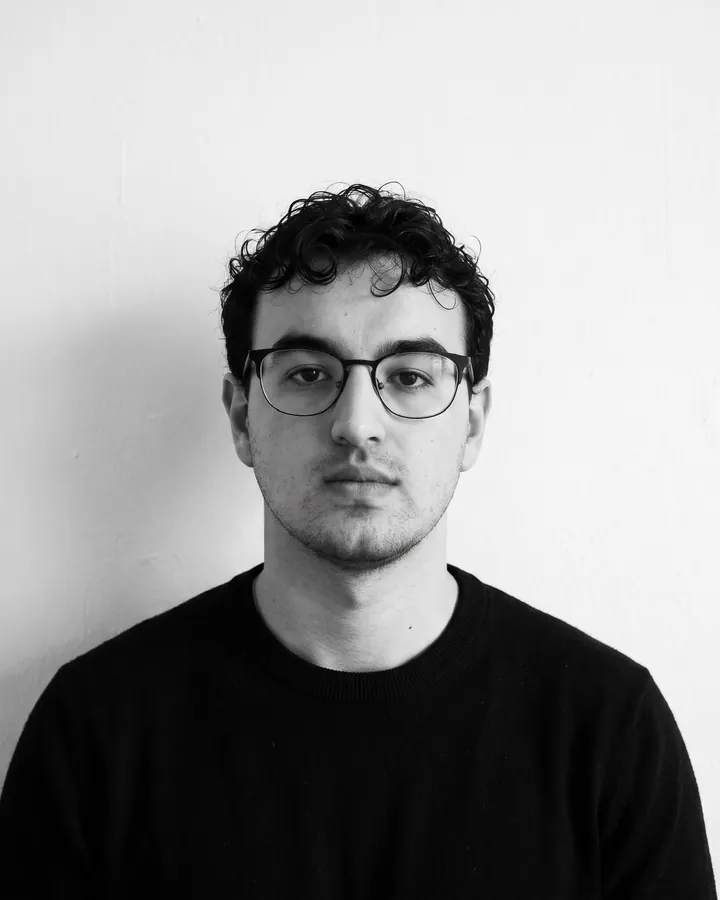
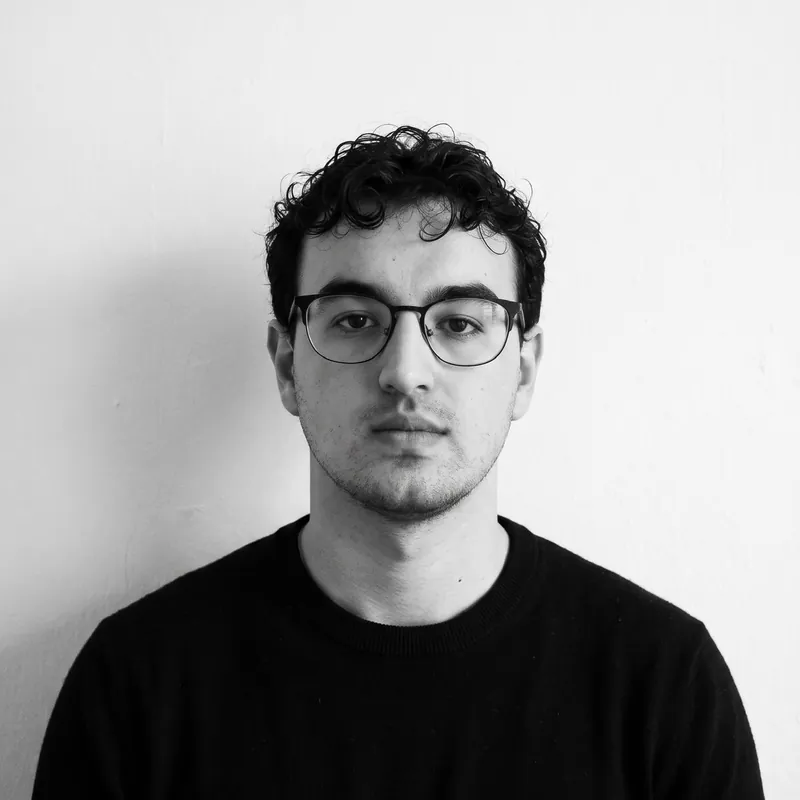
About: round photo frames, Volkan's photo, clothing-traced doodles, full studio names

Changed region(s): [[0.0, 0.1562, 1.0, 1.0]]

diff --git a/public/about.html b/public/about.html
@@ -127,82 +127,82 @@
       </div>
       <ul class="tm-grid">
         <li class="tm x-advisory io" style="--d:0.00s">
-          <div class="tm-ph"><img src="/team/01.webp" alt="" width="720" height="720" loading="lazy" decoding="async"><svg class="doodle" viewBox="0 0 100 125" preserveAspectRatio="none" aria-hidden="true"><circle pathLength="1" cx="82" cy="24" r="10"/><circle pathLength="1" cx="82" cy="24" r="4"/><path pathLength="1" d="M67 40L80 26M71 27l9-1l-1 9"/></svg></div>
+          <div class="tm-ph"><img src="/team/volkan.webp" alt="Volkan" width="800" height="800" loading="lazy" decoding="async"><svg class="doodle" viewBox="0 0 100 100" preserveAspectRatio="none" aria-hidden="true"><g transform="translate(0 -2.3)"><path pathLength="1" d="M35 68Q50 90 65 68"/><path pathLength="1" d="M31.5 69.5Q50 96 68.5 69.5"/><ellipse pathLength="1" cx="41" cy="41.5" rx="6" ry="5"/><ellipse pathLength="1" cx="56.5" cy="41.5" rx="6.3" ry="5"/></g></svg></div>
           <h3 class="tm-name">Volkan</h3>
           <p class="tm-role">Managing Partner / Head of Strategy</p>
         </li>
         <li class="tm x-creative io" style="--d:0.06s">
-          <div class="tm-ph"><img src="/team/02.webp" alt="" width="720" height="720" loading="lazy" decoding="async"><svg class="doodle" viewBox="0 0 100 125" preserveAspectRatio="none" aria-hidden="true"><path pathLength="1" d="M35 21L37 7L44 15L50 4L56 15L63 7L65 21Q50 17 35 21Z"/><path pathLength="1" d="M82 30v12M76 36h12"/><path pathLength="1" d="M18 52v7M14.5 55.5h7"/></svg></div>
+          <div class="tm-ph"><img src="/team/02.webp" alt="" width="720" height="720" loading="lazy" decoding="async"><svg class="doodle" viewBox="0 0 100 100" preserveAspectRatio="none" aria-hidden="true"><g transform="translate(10 0) scale(.8)"><path pathLength="1" d="M35 21L37 7L44 15L50 4L56 15L63 7L65 21Q50 17 35 21Z"/><path pathLength="1" d="M82 30v12M76 36h12"/><path pathLength="1" d="M18 52v7M14.5 55.5h7"/></g></svg></div>
           <h3 class="tm-name">Semih</h3>
           <p class="tm-role">Partner / Executive Creative Director</p>
         </li>
         <li class="tm x-brand io" style="--d:0.12s">
-          <div class="tm-ph"><img src="/team/ceren.webp" alt="Ceren" width="720" height="900" loading="lazy" decoding="async"><svg class="doodle" viewBox="0 0 100 125" preserveAspectRatio="none" aria-hidden="true"><path pathLength="1" d="M-13 6L-11 -8L-4 0L0 -11L4 0L11 -8L13 6Q0 2 -13 6Z" transform="translate(50 12) rotate(14)"/><path pathLength="1" d="M88 30v12M82 36h12"/><path pathLength="1" d="M8 118l9-8l7 4l11-12M28 102h7v7"/></svg></div>
+          <div class="tm-ph"><img src="/team/ceren.webp" alt="Ceren" width="800" height="800" loading="lazy" decoding="async"><svg class="doodle" viewBox="0 0 100 100" preserveAspectRatio="none" aria-hidden="true"><path pathLength="1" d="M18.5 49.5v2"/><circle pathLength="1" cx="18.5" cy="54" r="2.2"/><path pathLength="1" d="M84 38q6 3 2 8q-5 4 0 9q5 4 0 9q-4 3-1 7"/></svg></div>
           <h3 class="tm-name">Ceren</h3>
           <p class="tm-role">Partner / Head of Growth &amp; Client Relations</p>
         </li>
         <li class="tm x-corporate io" style="--d:0.18s">
-          <div class="tm-ph"><img src="/team/03.webp" alt="" width="720" height="720" loading="lazy" decoding="async"><svg class="doodle" viewBox="0 0 100 125" preserveAspectRatio="none" aria-hidden="true"><path pathLength="1" d="M74 12q-7 4-5 12M85 12q-7 4-5 12"/><path pathLength="1" d="M8 108h34"/><path pathLength="1" d="M18 102l5-7l5 7"/></svg></div>
+          <div class="tm-ph"><img src="/team/03.webp" alt="" width="720" height="720" loading="lazy" decoding="async"><svg class="doodle" viewBox="0 0 100 100" preserveAspectRatio="none" aria-hidden="true"><g transform="translate(10 0) scale(.8)"><path pathLength="1" d="M74 12q-7 4-5 12M85 12q-7 4-5 12"/><path pathLength="1" d="M8 108h34"/><path pathLength="1" d="M18 102l5-7l5 7"/></g></svg></div>
           <h3 class="tm-name">Çağlar</h3>
           <p class="tm-role">Partner / Editor-in-Chief</p>
         </li>
         <li class="tm x-brand io" style="--d:0.00s">
-          <div class="tm-ph"><img src="/team/03.webp" alt="" width="720" height="720" loading="lazy" decoding="async"><svg class="doodle" viewBox="0 0 100 125" preserveAspectRatio="none" aria-hidden="true"><path pathLength="1" d="M83 13l2.5 0.6l0.4 3.2l2.4 1.4l2.8-1.6l1.8 1.8l-1.6 2.8l1.4 2.4l3.2 0.4l0 3l-3.2 0.4l-1.4 2.4l1.6 2.8l-1.8 1.8l-2.8-1.6l-2.4 1.4l-0.4 3.2l-3 0l-0.4-3.2l-2.4-1.4l-2.8 1.6l-1.8-1.8l1.6-2.8l-1.4-2.4l-3.2-0.4l0-3l3.2-0.4l1.4-2.4l-1.6-2.8l1.8-1.8l2.8 1.6l2.4-1.4l0.4-3.2z"/><circle pathLength="1" cx="83.5" cy="26.5" r="4"/><path pathLength="1" d="M8 116L36 92M27 92h9v9"/></svg></div>
+          <div class="tm-ph"><img src="/team/03.webp" alt="" width="720" height="720" loading="lazy" decoding="async"><svg class="doodle" viewBox="0 0 100 100" preserveAspectRatio="none" aria-hidden="true"><g transform="translate(10 0) scale(.8)"><path pathLength="1" d="M83 13l2.5 0.6l0.4 3.2l2.4 1.4l2.8-1.6l1.8 1.8l-1.6 2.8l1.4 2.4l3.2 0.4l0 3l-3.2 0.4l-1.4 2.4l1.6 2.8l-1.8 1.8l-2.8-1.6l-2.4 1.4l-0.4 3.2l-3 0l-0.4-3.2l-2.4-1.4l-2.8 1.6l-1.8-1.8l1.6-2.8l-1.4-2.4l-3.2-0.4l0-3l3.2-0.4l1.4-2.4l-1.6-2.8l1.8-1.8l2.8 1.6l2.4-1.4l0.4-3.2z"/><circle pathLength="1" cx="83.5" cy="26.5" r="4"/><path pathLength="1" d="M8 116L36 92M27 92h9v9"/></g></svg></div>
           <h3 class="tm-name">Ulaş</h3>
           <p class="tm-role">Business Development Lead · Industrial &amp; Engineering</p>
         </li>
         <li class="tm x-brand io" style="--d:0.06s">
-          <div class="tm-ph"><img src="/team/04.webp" alt="" width="720" height="720" loading="lazy" decoding="async"><svg class="doodle" viewBox="0 0 100 125" preserveAspectRatio="none" aria-hidden="true"><path pathLength="1" d="M74 14v20M83 14v20M69 20h19M69 28h19"/><path pathLength="1" d="M20 108c-8-6-2-14 4-8c6-6 12 2 4 8l-4 4z"/><path pathLength="1" d="M10 30q6-4 10 0"/></svg></div>
+          <div class="tm-ph"><img src="/team/04.webp" alt="" width="720" height="720" loading="lazy" decoding="async"><svg class="doodle" viewBox="0 0 100 100" preserveAspectRatio="none" aria-hidden="true"><g transform="translate(10 0) scale(.8)"><path pathLength="1" d="M74 14v20M83 14v20M69 20h19M69 28h19"/><path pathLength="1" d="M20 108c-8-6-2-14 4-8c6-6 12 2 4 8l-4 4z"/><path pathLength="1" d="M10 30q6-4 10 0"/></g></svg></div>
           <h3 class="tm-name">Açelya</h3>
           <p class="tm-role">Creative Writer &amp; Social Media Lead</p>
         </li>
         <li class="tm x-corporate io" style="--d:0.12s">
-          <div class="tm-ph"><img src="/team/01.webp" alt="" width="720" height="720" loading="lazy" decoding="async"><svg class="doodle" viewBox="0 0 100 125" preserveAspectRatio="none" aria-hidden="true"><path pathLength="1" d="M73 12h20v24H73z"/><path pathLength="1" d="M77 19h12M77 24h12M77 29h7"/><path pathLength="1" d="M10 98l4 8M20 94v9M30 98l-4 8"/></svg></div>
+          <div class="tm-ph"><img src="/team/01.webp" alt="" width="720" height="720" loading="lazy" decoding="async"><svg class="doodle" viewBox="0 0 100 100" preserveAspectRatio="none" aria-hidden="true"><g transform="translate(10 0) scale(.8)"><path pathLength="1" d="M73 12h20v24H73z"/><path pathLength="1" d="M77 19h12M77 24h12M77 29h7"/><path pathLength="1" d="M10 98l4 8M20 94v9M30 98l-4 8"/></g></svg></div>
           <h3 class="tm-name">Name Surname</h3>
           <p class="tm-role">Account Manager · Events &amp; Corporate Comms</p>
         </li>
         <li class="tm x-corporate io" style="--d:0.18s">
-          <div class="tm-ph"><img src="/team/02.webp" alt="" width="720" height="720" loading="lazy" decoding="async"><svg class="doodle" viewBox="0 0 100 125" preserveAspectRatio="none" aria-hidden="true"><path pathLength="1" d="M82 10a5 5 0 0 1 5 5v9a5 5 0 0 1-10 0v-9a5 5 0 0 1 5-5z"/><path pathLength="1" d="M73 22a9 9 0 0 0 18 0M82 31v6"/><path pathLength="1" d="M8 96h26v20H8zM12 102h18M12 107h18M12 112h10"/></svg></div>
+          <div class="tm-ph"><img src="/team/02.webp" alt="" width="720" height="720" loading="lazy" decoding="async"><svg class="doodle" viewBox="0 0 100 100" preserveAspectRatio="none" aria-hidden="true"><g transform="translate(10 0) scale(.8)"><path pathLength="1" d="M82 10a5 5 0 0 1 5 5v9a5 5 0 0 1-10 0v-9a5 5 0 0 1 5-5z"/><path pathLength="1" d="M73 22a9 9 0 0 0 18 0M82 31v6"/><path pathLength="1" d="M8 96h26v20H8zM12 102h18M12 107h18M12 112h10"/></g></svg></div>
           <h3 class="tm-name">Name Surname</h3>
           <p class="tm-role">Media Relations Specialist</p>
         </li>
         <li class="tm x-research io" style="--d:0.00s">
-          <div class="tm-ph"><img src="/team/zeynep.webp" alt="Zeynep" width="720" height="900" loading="lazy" decoding="async"><svg class="doodle" viewBox="0 0 100 125" preserveAspectRatio="none" aria-hidden="true"><path pathLength="1" d="M50 30V17M50 23q-8-1-10-9q9 0 10 9M50 20q7-3 9-10q-8 1-9 10"/><circle pathLength="1" cx="84" cy="24" r="6"/><path pathLength="1" d="M88.5 28.5l6 6"/></svg></div>
-          <h3 class="tm-name">Zeynep</h3>
+          <div class="tm-ph"><img src="/team/zeynep.webp" alt="Zeynep Bastıyalı" width="800" height="800" loading="lazy" decoding="async"><svg class="doodle" viewBox="0 0 100 100" preserveAspectRatio="none" aria-hidden="true"><path pathLength="1" d="M41.5 62Q50 60.5 58.5 62"/><path pathLength="1" d="M30 64Q24 72 27 85M68 63Q74 71 71 85"/><ellipse pathLength="1" cx="42" cy="42" rx="5" ry="4"/><ellipse pathLength="1" cx="56" cy="42" rx="5" ry="4"/></svg></div>
+          <h3 class="tm-name">Zeynep Bastıyalı</h3>
           <p class="tm-role">Research &amp; Social Impact Consultant</p>
         </li>
         <li class="tm x-research io" style="--d:0.06s">
-          <div class="tm-ph"><img src="/team/01.webp" alt="" width="720" height="720" loading="lazy" decoding="async"><svg class="doodle" viewBox="0 0 100 125" preserveAspectRatio="none" aria-hidden="true"><circle pathLength="1" cx="83" cy="22" r="11"/><path pathLength="1" d="M83 11v11h11"/><path pathLength="1" d="M8 116l10-9l8 4l10-12l8 5"/><circle pathLength="1" cx="18" cy="107" r="1.6"/><circle pathLength="1" cx="36" cy="99" r="1.6"/></svg></div>
+          <div class="tm-ph"><img src="/team/01.webp" alt="" width="720" height="720" loading="lazy" decoding="async"><svg class="doodle" viewBox="0 0 100 100" preserveAspectRatio="none" aria-hidden="true"><g transform="translate(10 0) scale(.8)"><circle pathLength="1" cx="83" cy="22" r="11"/><path pathLength="1" d="M83 11v11h11"/><path pathLength="1" d="M8 116l10-9l8 4l10-12l8 5"/><circle pathLength="1" cx="18" cy="107" r="1.6"/><circle pathLength="1" cx="36" cy="99" r="1.6"/></g></svg></div>
           <h3 class="tm-name">Name Surname</h3>
           <p class="tm-role">Head of Data &amp; Insights</p>
         </li>
         <li class="tm x-creative io" style="--d:0.12s">
-          <div class="tm-ph"><img src="/team/mani.webp" alt="Mani" width="720" height="900" loading="lazy" decoding="async"><svg class="doodle" viewBox="0 0 100 125" preserveAspectRatio="none" aria-hidden="true"><circle pathLength="1" cx="39" cy="50" r="7.5"/><circle pathLength="1" cx="57" cy="50" r="7.5"/><path pathLength="1" d="M46.5 50q1.5-2 3 0M31.5 49l-8-3M64.5 49l8-3"/></svg></div>
-          <h3 class="tm-name">Mani</h3>
+          <div class="tm-ph"><img src="/team/mani.webp" alt="Mani Bagheri Hosseini" width="800" height="800" loading="lazy" decoding="async"><svg class="doodle" viewBox="0 0 100 100" preserveAspectRatio="none" aria-hidden="true"><path pathLength="1" d="M31 62Q35 78 30 100M62 63Q64 80 69 100"/><path pathLength="1" d="M35 80L39.5 92M62 80L55 88"/><circle pathLength="1" cx="36.2" cy="85" r="1.4"/></svg></div>
+          <h3 class="tm-name">Mani Bagheri Hosseini</h3>
           <p class="tm-role">Senior Graphic Designer / Art Director</p>
         </li>
         <li class="tm x-creative io" style="--d:0.18s">
-          <div class="tm-ph"><img src="/team/mehmet.webp" alt="Mehmet Serdar" width="720" height="900" loading="lazy" decoding="async"><svg class="doodle" viewBox="0 0 100 125" preserveAspectRatio="none" aria-hidden="true"><path pathLength="1" d="M44 24l-5-12M58 24l5-12"/><circle pathLength="1" cx="38.5" cy="10" r="2.2"/><circle pathLength="1" cx="63.5" cy="10" r="2.2"/><path pathLength="1" d="M88 22l-7 12h7l-6 12"/></svg></div>
-          <h3 class="tm-name">Mehmet Serdar</h3>
+          <div class="tm-ph"><img src="/team/mehmet.webp" alt="Mehmet Serdar Gül" width="800" height="800" loading="lazy" decoding="async"><svg class="doodle" viewBox="0 0 100 100" preserveAspectRatio="none" aria-hidden="true"><path pathLength="1" d="M35 70Q50 90 67 68"/><path pathLength="1" d="M20 61Q15 72 19 84M74 60Q84 68 83 84"/><path pathLength="1" d="M44 80L43 94M56 80L57 93"/><circle pathLength="1" cx="43" cy="95.6" r="1.3"/><circle pathLength="1" cx="57" cy="94.6" r="1.3"/></svg></div>
+          <h3 class="tm-name">Mehmet Serdar Gül</h3>
           <p class="tm-role">Junior Graphic Designer</p>
         </li>
         <li class="tm x-creative io" style="--d:0.00s">
-          <div class="tm-ph"><img src="/team/nehir.webp" alt="Nehir" width="720" height="900" loading="lazy" decoding="async"><svg class="doodle" viewBox="0 0 100 125" preserveAspectRatio="none" aria-hidden="true"><path pathLength="1" d="M32.8 10.5a2.2 2.2 0 1 0 4.4 0a2.2 2.2 0 1 0 -4.4 0M36.1 12.9a2.2 2.2 0 1 0 4.4 0a2.2 2.2 0 1 0 -4.4 0M34.9 16.8a2.2 2.2 0 1 0 4.4 0a2.2 2.2 0 1 0 -4.4 0M30.7 16.8a2.2 2.2 0 1 0 4.4 0a2.2 2.2 0 1 0 -4.4 0M29.5 12.9a2.2 2.2 0 1 0 4.4 0a2.2 2.2 0 1 0 -4.4 0M47.8 5.5a2.2 2.2 0 1 0 4.4 0a2.2 2.2 0 1 0 -4.4 0M51.1 7.9a2.2 2.2 0 1 0 4.4 0a2.2 2.2 0 1 0 -4.4 0M49.9 11.8a2.2 2.2 0 1 0 4.4 0a2.2 2.2 0 1 0 -4.4 0M45.7 11.8a2.2 2.2 0 1 0 4.4 0a2.2 2.2 0 1 0 -4.4 0M44.5 7.9a2.2 2.2 0 1 0 4.4 0a2.2 2.2 0 1 0 -4.4 0M62.8 10.5a2.2 2.2 0 1 0 4.4 0a2.2 2.2 0 1 0 -4.4 0M66.1 12.9a2.2 2.2 0 1 0 4.4 0a2.2 2.2 0 1 0 -4.4 0M64.9 16.8a2.2 2.2 0 1 0 4.4 0a2.2 2.2 0 1 0 -4.4 0M60.7 16.8a2.2 2.2 0 1 0 4.4 0a2.2 2.2 0 1 0 -4.4 0M59.5 12.9a2.2 2.2 0 1 0 4.4 0a2.2 2.2 0 1 0 -4.4 0"/><path pathLength="1" d="M86 40c-5-4-1-10 3-6c4-4 9 2 3 6l-3 3z"/></svg></div>
-          <h3 class="tm-name">Nehir</h3>
-          <p class="tm-role">Architect / 3D Artist</p>
-        </li>
-        <li class="tm x-creative io" style="--d:0.06s">
-          <div class="tm-ph"><img src="/team/koray.webp" alt="Koray" width="720" height="900" loading="lazy" decoding="async"><svg class="doodle" viewBox="0 0 100 125" preserveAspectRatio="none" aria-hidden="true"><path pathLength="1" d="M39 36q-7-8-3-16q2 8 9 12M61 36q7-8 3-16q-2 8-9 12"/><path pathLength="1" d="M82 44l9-3M83 51h10"/><path pathLength="1" d="M84 16l2 5l5 2l-5 2l-2 5l-2-5l-5-2l5-2z"/></svg></div>
-          <h3 class="tm-name">Koray</h3>
+          <div class="tm-ph"><img src="/team/koray.webp" alt="Koray İn" width="800" height="800" loading="lazy" decoding="async"><svg class="doodle" viewBox="0 0 100 100" preserveAspectRatio="none" aria-hidden="true"><path pathLength="1" d="M34 65L21 80L38 83M64 65L78 79L61 83"/><path pathLength="1" d="M40 75L50 92L61 74M50 92V100"/><circle pathLength="1" cx="50" cy="96" r="1.3"/></svg></div>
+          <h3 class="tm-name">Koray İn</h3>
           <p class="tm-role">Architect / Creative Technologist · 3D &amp; AI</p>
         </li>
+        <li class="tm x-creative io" style="--d:0.06s">
+          <div class="tm-ph"><img src="/team/nehir.webp" alt="Nehir Bal" width="800" height="800" loading="lazy" decoding="async"><svg class="doodle" viewBox="0 0 100 100" preserveAspectRatio="none" aria-hidden="true"><path pathLength="1" d="M22 70.5Q38 72 55 70"/><path pathLength="1" d="M40 66Q47 70.5 54 66"/><circle pathLength="1" cx="47" cy="69.5" r="1"/></svg></div>
+          <h3 class="tm-name">Nehir Bal</h3>
+          <p class="tm-role">Architect / 3D Artist</p>
+        </li>
         <li class="tm x-creative io" style="--d:0.12s">
-          <div class="tm-ph"><img src="/team/ozan.webp" alt="Ozan Serkan Muyan" width="720" height="900" loading="lazy" decoding="async"><svg class="doodle" viewBox="0 0 100 125" preserveAspectRatio="none" aria-hidden="true"><path pathLength="1" d="M68 18l11-6l11 6v13l-11 6l-11-6z"/><path pathLength="1" d="M68 18l11 6l11-6M79 24v13"/><path pathLength="1" d="M18 70c1 7 3 9 10 10c-7 1-9 3-10 10c-1-7-3-9-10-10c7-1 9-3 10-10z"/></svg></div>
+          <div class="tm-ph"><img src="/team/ozan.webp" alt="Ozan Serkan Muyan" width="800" height="800" loading="lazy" decoding="async"><svg class="doodle" viewBox="0 0 100 100" preserveAspectRatio="none" aria-hidden="true"><path pathLength="1" d="M36 66Q50 86 65 66"/><path pathLength="1" d="M33 67Q50 92 68 67"/><path pathLength="1" d="M36.5 37.5h11v7q0 2-2 2h-7q-2 0-2-2zM53 37.5h11v7q0 2-2 2h-7q-2 0-2-2zM47.5 39.5h5.5"/></svg></div>
           <h3 class="tm-name">Ozan Serkan Muyan</h3>
           <p class="tm-role">Architect / Creative Technologist · 3D &amp; AI</p>
         </li>
         <li class="tm x-creative io" style="--d:0.18s">
-          <div class="tm-ph"><img src="/team/kedito.webp" alt="" width="800" height="1003" loading="lazy" decoding="async"><svg class="doodle" viewBox="0 0 100 125" preserveAspectRatio="none" aria-hidden="true"><path pathLength="1" d="M50 60l-12-7v14zM50 60l12-7v14z"/><circle pathLength="1" cx="50" cy="60" r="2.5"/><path pathLength="1" d="M5 16h14v11H5zM5 16l4-5h14l-4 5M19 27l4-5V11"/></svg></div>
+          <div class="tm-ph"><img src="/team/kedito.webp" alt="" width="800" height="1003" loading="lazy" decoding="async"><svg class="doodle" viewBox="0 0 100 100" preserveAspectRatio="none" aria-hidden="true"><g transform="translate(0 -7)"><path pathLength="1" d="M50 60l-12-7v14zM50 60l12-7v14z"/><circle pathLength="1" cx="50" cy="60" r="2.5"/><path pathLength="1" d="M5 16h14v11H5zM5 16l4-5h14l-4 5M19 27l4-5V11"/></g></svg></div>
           <h3 class="tm-name">Kedito</h3>
           <p class="tm-role">Office Cat / Chief Morale Officer</p>
           <p class="tm-line">Also Executive Box Director and Head of Purr-formance. Thinks outside the box. Sleeps inside it.</p>

diff --git a/public/site.css b/public/site.css
@@ -565,18 +565,16 @@ html[data-color="on"] .x-advisory{--tc:var(--c-advisory);--tt:var(--t-advisory)}
 .tm-grid{display:grid;grid-template-columns:repeat(4,minmax(0,1fr));gap:clamp(36px,4vw,56px) clamp(14px,1.6vw,24px);margin:clamp(40px,5vw,72px) 0 0;padding:0;list-style:none}
 .tm{display:flex;flex-direction:column;gap:4px}
 .tm.in{animation:rise .9s var(--ease) backwards;animation-delay:var(--d,0s)}
-.tm-ph{position:relative;aspect-ratio:4/5;margin-bottom:12px;border-radius:14px;overflow:hidden;background:var(--grey-light)}
-.tm-ph img{position:absolute;inset:0;width:100%;height:100%;object-fit:cover;object-position:center 28%;filter:grayscale(1) contrast(1.08);transition:transform 1.2s var(--ease)}
-.tm:hover .tm-ph img{transform:scale(1.04)}
+.tm-ph{position:relative;aspect-ratio:1/1;margin-bottom:14px;transition:transform .6s cubic-bezier(.3,1.6,.4,1)}
+.tm-ph img{position:absolute;inset:0;width:100%;height:100%;object-fit:cover;object-position:center 28%;border-radius:50%;background:var(--grey-light);filter:grayscale(1) contrast(1.08)}
+.tm:hover .tm-ph{transform:scale(1.03) rotate(-1.5deg)}
 .tm-sil{position:absolute;inset:0;width:100%;height:100%;fill:var(--grey)}
 .tm-ph .ph-tag{position:absolute;left:10px;bottom:10px;z-index:2;font-size:12px;padding:4px 10px}
 .doodle{position:absolute;inset:0;width:100%;height:100%;overflow:visible;pointer-events:none;z-index:1}
-.doodle *{fill:none;stroke:var(--dc);stroke-width:1.5;stroke-linecap:round;stroke-linejoin:round;stroke-dasharray:1;stroke-dashoffset:1}
+.doodle *{fill:none;stroke:var(--dc);stroke-width:1.6;stroke-linecap:round;stroke-linejoin:round;stroke-dasharray:1;stroke-dashoffset:1}
 .tm.in .doodle *{animation:draw 1.1s var(--ease) forwards;animation-delay:calc(var(--d,0s) + .45s)}
 .tm.in .doodle :nth-child(2){animation-delay:calc(var(--d,0s) + .8s)}
 .tm.in .doodle :nth-child(3){animation-delay:calc(var(--d,0s) + 1.05s)}
-.tm .doodle{transform-origin:50% 40%;transition:transform .6s cubic-bezier(.3,1.6,.4,1)}
-.tm:hover .doodle{transform:rotate(-2.5deg) scale(1.03)}
 .motion-off .doodle *{stroke-dashoffset:0}
 @media (prefers-reduced-motion:reduce){.doodle *{stroke-dashoffset:0;animation:none!important}}
 .tm-name{margin:0;font-weight:500;font-size:clamp(19px,1.5vw,22px);line-height:1.15;letter-spacing:-.025em}
@@ -584,12 +582,12 @@ html[data-color="on"] .x-advisory{--tc:var(--c-advisory);--tt:var(--t-advisory)}
 html[data-color="on"] .tm-tag{background:var(--dc);color:var(--white)}
 .tm-role{font-size:15px;font-weight:400;line-height:1.35;color:var(--muted)}
 .tm-line{margin-top:4px;font-size:14px;line-height:1.45;color:var(--muted)}
-.tm-you-in{display:flex;flex-direction:column;align-items:flex-start;justify-content:flex-end;gap:6px;aspect-ratio:4/5;padding:20px;border:1.5px dashed var(--grey);border-radius:14px}
+.tm-you-in{display:flex;flex-direction:column;align-items:flex-start;justify-content:flex-end;gap:6px;aspect-ratio:1/1;padding:20px;border:1.5px dashed var(--grey);border-radius:50%;align-items:center;justify-content:center;text-align:center}
 .tm-you .tm-name{font-weight:700;letter-spacing:-.045em;font-size:clamp(36px,3.4vw,52px)}
 .tm-you .tm-role{font-size:11px;letter-spacing:.12em;text-transform:uppercase;color:var(--muted);font-weight:400}
 .tm-you .tlink{margin-top:10px}
 /* desktop: 16 people + the open seat in 4 columns, so the open seat runs the full last row as a wide banner. Re-check when the head count changes. */
-@media (min-width:1101px){.tm-you{grid-column:1 / -1}.tm-you-in{aspect-ratio:auto;flex-direction:row;flex-wrap:wrap;align-items:flex-end;justify-content:flex-start;gap:12px 40px;padding:clamp(28px,3vw,44px)}.tm-you .tm-name{font-size:clamp(48px,5vw,80px);order:-1}.tm-you .tm-role{flex-basis:100%;order:-2}.tm-you .tm-line{max-width:36ch;font-size:16px;padding-bottom:10px}.tm-you .tlink{margin:0 0 10px auto}}
+@media (min-width:1101px){.tm-you{grid-column:1 / -1}.tm-you-in{aspect-ratio:auto;border-radius:999px;text-align:left;flex-direction:row;flex-wrap:wrap;align-items:flex-end;justify-content:flex-start;gap:12px 40px;padding:clamp(28px,3vw,44px)}.tm-you .tm-name{font-size:clamp(48px,5vw,80px);order:-1}.tm-you .tm-role{flex-basis:100%;order:-2}.tm-you .tm-line{max-width:36ch;font-size:16px;padding-bottom:10px}.tm-you .tlink{margin:0 0 10px auto}}
 
 /* how we work */
 .ways{display:grid;grid-template-columns:repeat(4,minmax(0,1fr));gap:32px clamp(24px,3vw,48px);margin:clamp(40px,5vw,72px) 0 0;padding:0;list-style:none}
@@ -616,6 +614,6 @@ html[data-color="on"] .ways li:nth-child(4){border-color:var(--c-events)}
 @media (max-width:640px){
   .ways{grid-template-columns:minmax(0,1fr)}
   .tm-grid{grid-template-columns:repeat(2,minmax(0,1fr));gap:32px 12px}
-  .tm-you{grid-column:1 / -1}
+  .tm-you{grid-column:1 / -1}.tm-you-in{aspect-ratio:auto;border-radius:28px;padding:28px 20px}
   .tm-line{font-size:13px}
 }

diff --git a/BRIEF.md b/BRIEF.md
@@ -75,7 +75,8 @@ Sectors: energy & utilities · construction & building materials · public secto
    - Name Surname — Head of Data & Insights: very senior data analyst; media analysis, measurement, dashboards, munus lens (research)
    - Kedito (tuxedo cat, "Office Cat" tag) — Chief Morale Officer; also Executive Box Director and Head of Purr-formance. Photo `team/kedito.webp` is a stand-in: "Tuxedo cat, front view" by Ryan Schwark, Wikimedia Commons, CC0. Swap for the real cat.
    - Mani — Senior Graphic Designer / Art Director; Koray and Ozan Serkan Muyan — Architect / Creative Technologist · 3D & AI (creative)
-   - Mehmet Serdar — Junior Graphic Designer; Nehir — Architect / 3D Artist (creative)
+   - Mehmet Serdar Gül — Junior Graphic Designer; Nehir Bal — Architect / 3D Artist (creative). Studio cards use full names (Mani Bagheri Hosseini, Koray İn, Zeynep Bastıyalı)
+   - Photos: round frames; marker doodles trace clothes and accessories (collars, buttons, hood strings, glasses, earrings), bak-style
    Photos are B&W (4:5); for now every card without a photo reuses one of the four 3D placeholder avatars (team/01–04, spread so no row or column repeats); each carries a hand-drawn SVG doodle in the person's expertise colour that draws itself in on scroll (target + arrow, crown, speech bubble, quote marks + edit caret, hashtag + heart, frame, squiggle, play, floor plan, wireframe cube). Once real photos are in, re-place each doodle on the photo (trace a collar, glasses, a gesture).
 3. **How we work** — "the way we sit.": four principles (draft).
 4. **Culture** — "life at munus." photo strip + the perks list (same blocks as on the home page; keep both in step).
